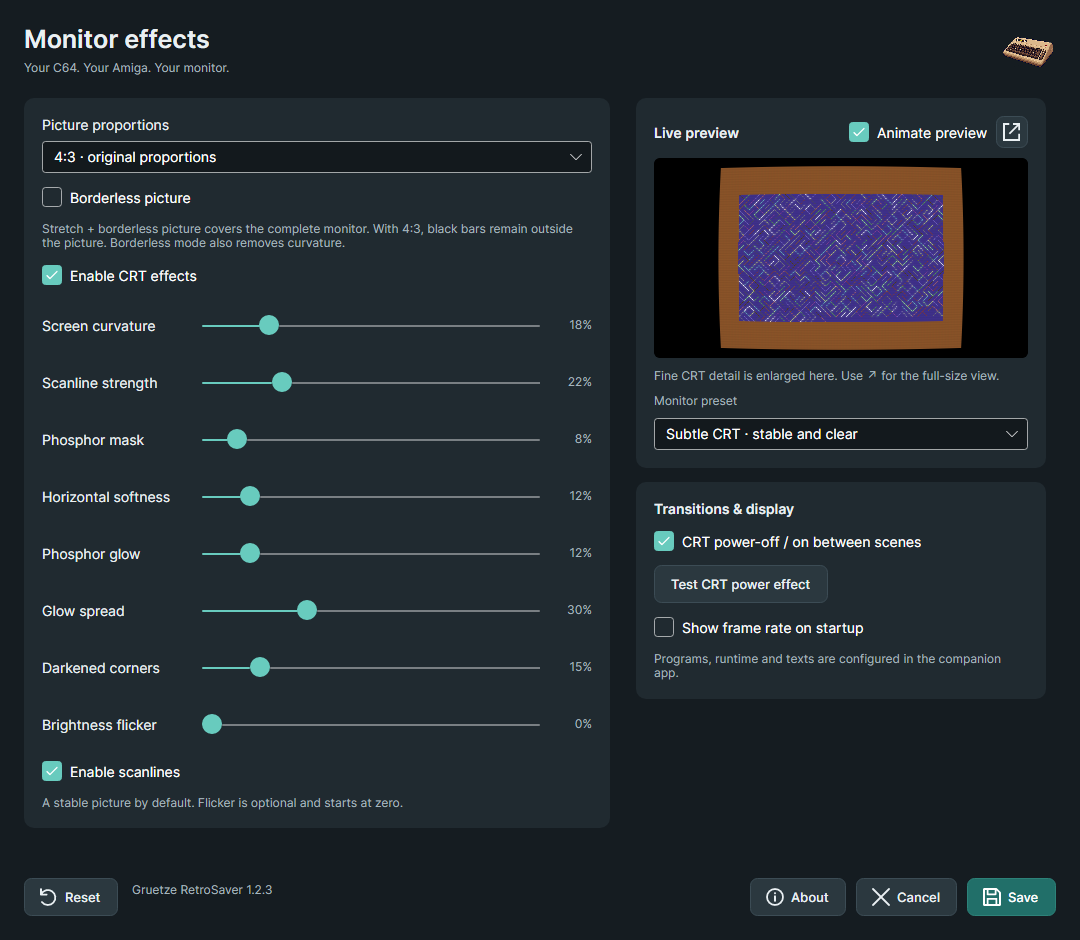
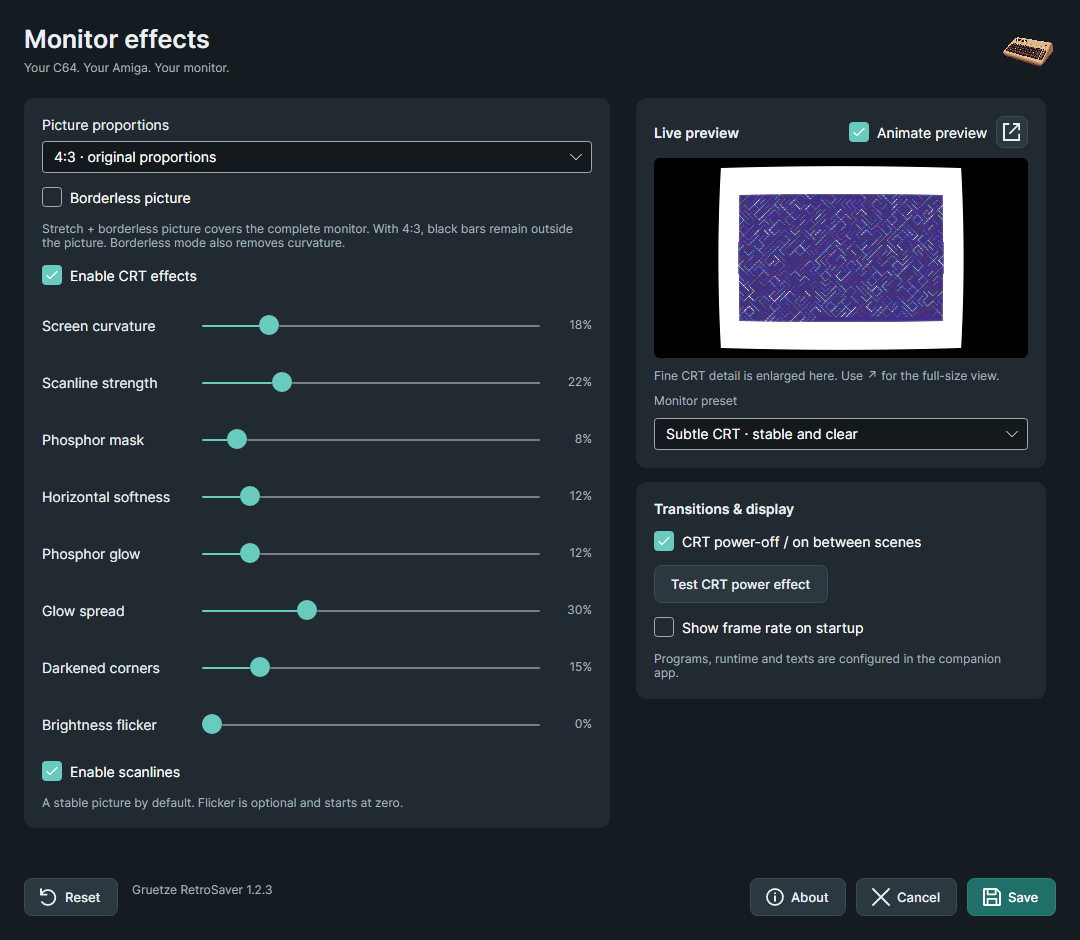
Prepare Gruetze RetroSaver 1.2.3 public release and refresh product documentation

Changed region(s): [[0.6417, 0.1543, 0.9167, 0.3702]]

diff --git a/README.md b/README.md
@@ -1,190 +1,144 @@
 # Gruetze RetroSaver
 
-Version **1.2.3** introduces the .NET 10 / Avalonia 12 companion for C64 and Amiga.
-Normal launch opens the companion; --fullscreen starts the selected animation.
-
-The Amiga selection contains **Jump & run** and **Plasma**. Alternate both or repeat
-one with a configurable duration and CRT power transitions. Jump & run includes
-an automatically jumping explorer, crystals and two independently scrolling woodland
-layers. Scrolling text can be edited, adjusted or hidden. Choose the historical
-Kickstart 1.3, 2.0 or 3.1 startup, or skip startup; an optional red disk-activity
-reflection accompanies loading. No Kickstart ROM is loaded.
-See [screen artwork credits](C64Screensaver/Assets/Kickstart/CREDITS.md).
-
-The C64 retains all three BASIC programs, ghost typing, corrections and RUN.
-Windows and Linux packages remain free. macOS development builds include the
-companion app and a real native system screensaver, built for Apple Silicon and Intel.
-A single DMG contains the companion with the native screensaver embedded inside it.
-Move the app into Applications, open it, and use **Install / update system screensaver**.
-Native Mac rendering uses Metal when available and keeps rendering/disposal off the UI thread.
-Both interfaces use one per-user settings file; the running screensaver reloads saves
-automatically. The native Options dialog remains available. App Store submission is
-pending. Mac developer packages are ad-hoc signed, not notarized, and are kept as
-build artifacts rather than public release assets.
-See [Mac build instructions](macos/README.md) and the
-[Developer ID guide](macos/APPLE-DEVELOPER-DE.md).
-The downloads below describe the historical C64Screensaver 1.1.0 release.
-
-![Gruetze RetroSaver companion with editable Amiga scroller](docs/images/retrosaver-companion.png)
-
-![Autoplay Amiga jump-and-run with scrolling text](docs/images/amiga-jump-and-run.png)
-
-## Existing C64 release 1.1
-
-A C64-inspired screensaver for Windows, Linux and macOS, built with .NET 10 and Avalonia 12.
-
-The familiar blue startup screen comes to life: an invisible typist enters real
-BASIC, makes mistakes, corrects them with Backspace and finally types RUN.
-Then the program takes over.
+C64 BASIC and Amiga demo screensavers with a shared companion app and adjustable CRT effects. Built with .NET 10 and Avalonia 12.
 
 ![C64 BASIC with phosphor glow](docs/images/glowing-crt.png)
 
-## Features
+## Two retro worlds
 
-- Three actual BASIC programs: endless maze, editable company card and twinkling starfield.
-- Play one program or cycle through all three, with adjustable run time and repeated code entry.
-- CRT curvature, scanlines, RGB phosphor mask, softness, glow, darkened corners and optional flicker.
-- Clean pixels, Subtle CRT, Classic monitor and Glowing CRT presets, individual controls and two live preview sizes.
-- Optional CRT power-off/on transition, collapsing the image into a line and a glowing point.
-- Independent 4:3 or stretched picture proportions and an option to hide the C64 border.
-- Editable company name, website and extra message.
-- Multiple monitors on Windows and X11; selectable X11/Wayland backend on Linux.
+**Commodore 64:** watch an invisible typist enter BASIC line by line, make mistakes,
+correct them with Backspace and finally type RUN. Choose an endless maze, an
+editable company card or a twinkling starfield. Cycle through all three or repeat
+one, with configurable runtime and optional border colour changes.
 
-The built-in BASIC interpreter executes a limited C64 BASIC V2 subset. This is
-not a full C64 emulator and does not load PRG files. Text uses fixed 8×8 glyphs
-on a 40×25 grid without requiring a C64 ROM.
+**Amiga:** choose a Kickstart 1.3, 2.0 or 3.1 startup image, then enjoy an autoplay
+Jump & run with layered woodland parallax or colourful Plasma. Alternate both
+or repeat your favourite. Edit, adjust or hide the sine-wave scrolling text;
+add a subtle disk-activity reflection during startup. No Kickstart ROM is loaded.
+See [artwork credits](C64Screensaver/Assets/Kickstart/CREDITS.md).
 
-## Download and start
+![Amiga jump-and-run with scrolling text](docs/images/amiga-jump-and-run.png)
 
-[Download version 1.1.0](https://github.com/gruetze-software/C64Screensaver/releases/tag/v1.1.0)
+## Download 1.2.3
 
-Version **1.1.0** packages are prepared for Windows, Linux and macOS on x64 and ARM64.
-Each ZIP includes the .NET runtime; a separate .NET installation is not required.
-Extract the **entire** archive into a folder before launching.
+[Download Gruetze RetroSaver 1.2.3](https://github.com/gruetze-software/C64Screensaver/releases/tag/v1.2.3)
 
-| Platform | Start settings | Start fullscreen |
+Free, self-contained ZIP packages are available for **Windows and Linux**, on
+x64 and ARM64. No separate .NET installation is needed. Extract the entire ZIP
+before starting; keep its files together. Verify downloads with SHA256SUMS.txt.
+
+| Platform | Open companion | Start animation |
 | --- | --- | --- |
-| Windows | c64screensaver.exe --settings | c64screensaver.exe --fullscreen |
-| Linux | ./c64screensaver --settings | ./c64screensaver --fullscreen |
-| macOS | ./c64screensaver --settings | ./c64screensaver --fullscreen |
+| Windows | `c64screensaver.exe` | `c64screensaver.exe --fullscreen` |
+| Linux | `./c64screensaver` | `./c64screensaver --fullscreen` |
 
-On Linux and macOS, first run chmod +x c64screensaver in the extracted folder.
-Linux requires a graphical desktop and the native libraries used by Avalonia/Skia;
-a minimal server installation is insufficient. macOS packages are unsigned and
-not notarized; system security settings may require explicit approval to open them.
+The executable retains its historical filename for compatibility. The application
+and download packages are named **Gruetze RetroSaver**.
+On Linux, first run `chmod +x c64screensaver`. A graphical desktop and the native
+libraries required by Avalonia/Skia are needed. Use `--x11` or `--wayland` to
+select the backend; Wayland currently uses one display.
 
-Fullscreen exits on mouse movement, click or keypress. Windowed mode closes with
-Escape. F toggles frame statistics. Additional commands: --windowed, --about.
-On Linux, --x11 and --wayland select the display backend.
+Fullscreen exits on mouse movement, click or keypress after a short launch grace
+period. Escape closes windowed previews; F toggles frame statistics.
+Additional commands: `--settings`, `--windowed`, `--about`.
 
 ### Windows screensaver
 
-The Windows archive includes c64screensaver.scr. Keep it beside the executable
-and all included dependencies. Right-click the SCR file for Windows screensaver
-options. The standard /s, /c and /p HWND switches are supported.
-Do not move the SCR file alone into a system folder.
+Right-click the included `c64screensaver.scr` to install or configure it using
+Windows screensaver options. Keep it beside the executable and all dependencies;
+do not copy the SCR file alone into a system folder. Standard `/s`, `/c` and
+`/p HWND` switches are supported.
 
-### Linux and macOS integration
+### Linux integration
 
-For external automatic-launch options, see the
-[Linux and macOS screensaver setup guide](docs/SCREEN-SAVER-SETUP.md).
-It includes the current Flathub/Snap Store findings and the distinction between
-fullscreen automation and a native macOS screensaver.
+Automatic activation depends on the desktop environment. See the
+[setup guide](docs/SCREEN-SAVER-SETUP.md) for X11 and other desktop integrations,
+including the limitations on GNOME/Wayland. RetroSaver does not install an idle
+helper or autostart entry and does not replace the password lock.
 
-On Linux, use --fullscreen through a desktop screensaver command integration
-where supported. Wayland currently uses one display; lock-screen integration
-depends on the desktop environment.
+### macOS
 
-On macOS, this release is a fullscreen desktop application. A native .saver
-bundle and registration in the macOS Screen Saver settings are not included.
+A native system screensaver and companion app are in development for Apple
+Silicon and Intel. The app contains the `.saver` and offers **Install / update
+system screensaver**. Both interfaces share settings; native rendering uses
+Metal when available, with a CPU fallback.
 
-Windows rendering and automated tests were checked locally. Linux and macOS
-packages are cross-published; native runtime testing on those systems is still
-required.
+Public GitHub releases contain **Windows/Linux downloads only**. Mac distribution
+through the App Store is planned; no Store version or purchase link is available
+yet. Developer builds and signing are documented in the [Mac guide](macos/README.md)
+and [Developer ID instructions](macos/APPLE-DEVELOPER-DE.md).
 
-## Settings
+## Companion and settings
 
-The companion shows the controls for the selected system. C64 offers BASIC program,
-runtime, animation speed, border colour changes and the three company-card texts.
-Amiga offers Kickstart, Jump & run/Plasma, duration, disk reflection and scrolling text.
+Select C64 or Amiga in the companion. Each system has its own playback and text
+controls; settings are saved independently of the shared monitor effects.
 
-![C64 playback and company text in the companion](docs/images/settings-playback.png)
+![Amiga companion with editable scrolling text](docs/images/retrosaver-companion.png)
 
-**Monitor effects** opens the common C64/Amiga dialog: proportions, borderless picture,
-CRT controls, presets, power transitions and frame-rate display. Its live preview uses
-the selected system. The ↗ button opens a larger view; F11 toggles fullscreen and
-Escape closes it. Reset affects monitor/display options, preserving programs and texts.
+![C64 companion with BASIC and company-card controls](docs/images/settings-playback.png)
+
+**Monitor effects** offers curvature, scanlines, phosphor mask, horizontal
+softness, glow strength and spread, darkened corners and optional flicker.
+Start from Clean pixels, Subtle CRT, Classic monitor or Glowing CRT, then adjust
+each effect with the live preview. The enlarge button opens a bigger preview;
+F11 toggles its fullscreen view and Escape closes it.
 
 ![Shared monitor effects with default values](docs/images/settings-monitor.png)
 
-On macOS, Screen Saver Options opens the installed companion. If Launch Services
-cannot find it, the native fallback editor stays available. Move the complete app
-into Applications before installing the embedded screensaver. The macOS app menu
-uses the Gruetze RetroSaver name, About and Settings entries and standard Hide/Quit.
-Mac DMGs include English installation instructions in **Read me.txt**.
+Choose original 4:3 proportions or stretch to the display. Stretch plus hidden
+border fills the monitor; 4:3 retains black bars on wide or portrait displays.
+Hiding the border removes curvature. Flicker defaults to zero. Optional CRT
+power transitions collapse the image into a line and glowing dot between programs.
+Reset in Monitor effects preserves both systems' playback and text settings.
 
-4:3 preserves the picture shape. Stretch plus borderless picture covers the monitor;
-4:3 leaves black bars on wide/portrait displays. Borderless mode removes curvature.
-Flicker is optional and defaults to zero. Settings are shared on macOS as described
-in the Mac guide; Windows/Linux retain C64Screensaver/settings.json.
+On macOS, Screen Saver Options opens the installed companion, or a native fallback
+with General, C64, Amiga and Monitor effects tabs. Move the app to Applications
+before installing its embedded screensaver. Mac DMGs include English Read me.txt.
+
+The C64 interpreter implements a limited BASIC V2 subset and a 40×25 character
+screen with 8×8 glyphs. This is not a full machine emulator; PRG files are not loaded.
 
 ## Build and test
 
 Requires the .NET 10 SDK. Package versions are fixed in the project file.
 
-    dotnet build C64Screensaver.sln -c Release
-    dotnet run --project tests/Smoke -c Release
+```sh
+dotnet build C64Screensaver.sln -c Release
+dotnet run --project tests/Smoke -c Release
+```
 
-The smoke suite checks BASIC execution, typing and typo correction, RUN gating,
-demo rotation, settings persistence, picture coverage and proportions, CRT
-transitions, slider geometry and rendered differences in both live previews.
-It writes diagnostic images to docs/images.
+The smoke suite checks BASIC execution, ghost typing, rotation, settings,
+proportions, CRT transitions, live previews and editor layout. It also regenerates
+README dialog screenshots using isolated settings, without resetting personal
+preferences. Additional Amiga and native bridge tests are in `tests/Amiga` and
+`tests/NativeBridge`. Mac CI checks the native options, lifecycle, Metal rendering,
+real fullscreen and packaged DMG on Apple Silicon and Intel.
 
-To deliberately reset the current user's settings and regenerate the two README
-screenshots:
-
-    dotnet run --project tests/Smoke -c Release -- --release-screenshots
-
-That explicit command saves a copy of the previous settings in
-artifacts/user-settings-before-release.json and writes the default settings.
-Ordinary tests do not reset the user's settings.
+To deliberately reset personal settings and capture defaults, use the optional
+`--release-screenshots` smoke argument. Previous settings are backed up in
+`artifacts/user-settings-before-release.json`.
 
 ## Prepare release packages
 
-    pwsh scripts/release.ps1
+```powershell
+pwsh scripts/release.ps1
+```
 
-Builds and tests Release, then creates free Windows/Linux self-contained ZIP files
-and a SHA-256 checksum list in artifacts/release/1.2.0.
-To publish one platform:
+Builds and tests Release, then creates Windows/Linux ZIPs and SHA-256 checksums
+in `artifacts/release/1.2.3`. For one platform use
+`pwsh scripts/publish.ps1 -Runtime win-x64`. Public release targets are win-x64,
+win-arm64, linux-x64 and linux-arm64. Publishing locally does not upload a release.
 
-    pwsh scripts/publish.ps1 -Runtime win-x64
-
-Supported targets: win-x64, win-arm64, linux-x64, linux-arm64,
-osx-x64, osx-arm64. Internet access may be needed to restore runtime packs.
-Publishing does not sign, upload or register the application.
-
-See [release notes](CHANGELOG.md) and
-[CRT research and implementation](docs/CRT-RESEARCH.md).
+See the [changelog](CHANGELOG.md), [CRT research](docs/CRT-RESEARCH.md) and
+[Mac performance notes](macos/PERFORMANCE.md).
 
 ## Credits and license
 
 Created by [Grütze-Software](https://www.gruetze-software.de).
-Settings, About styling and the C64 breadbox artwork come from the owner's
-GruetzeToaster project. The separate company logo is retained in About.
-The renderer uses an original Skia shader; emulator references are documented
-in the CRT research notes.
+Settings/About styling and C64 breadbox artwork originate in the owner's
+GruetzeToaster project. The company logo appears in About. The CRT shader is an
+original implementation; emulator references are documented in the research notes.
 
-MIT license; see [LICENSE](LICENSE). Independent project, not affiliated with Commodore.
-
-## New in 1.1
-
-Version 1.1 adds smooth CRT bloom with an independent glow-spread
-slider and a stable **Glowing CRT** preset. The shader implementation is original.
-
-![Broad CRT phosphor bloom](docs/images/glowing-crt.png)
-
-Automatic activation is delegated to external desktop tools. The application
-does not install an idle helper or a login autostart entry.
-See [setting up a screensaver on Linux and macOS](docs/SCREEN-SAVER-SETUP.md)
-for verified options and platform limitations. The Snap recipe remains an
-unbuilt development draft for manually launching the animation.
+MIT license; see [LICENSE](LICENSE). Kickstart captures have separate
+[artwork credits](C64Screensaver/Assets/Kickstart/CREDITS.md).
+Independent project, not affiliated with Commodore.

diff --git a/docs/SCREEN-SAVER-SETUP.md b/docs/SCREEN-SAVER-SETUP.md
@@ -1,6 +1,6 @@
-# Set up C64Screensaver on Linux and macOS
+# Set up Gruetze RetroSaver on Linux and macOS
 
-C64Screensaver renders the animation and exits fullscreen on input.
+Gruetze RetroSaver renders the animation and exits fullscreen on input.
 It does not monitor desktop inactivity, install a background helper, create
 login autostart entries or replace the operating system's password lock.
 
@@ -93,54 +93,23 @@ Names and placement depend on the Plasma version. Configure the relevant power
 profile. This documents PowerDevil's feature, not a native KDE compatibility
 test of this application's package. Keep the normal screen lock enabled.
 
-## macOS: automatic fullscreen with Keyboard Maestro
+## macOS: native system screensaver
 
-The Mac package currently is a desktop executable. It does not contain a
-native screensaver bundle and cannot simply be selected in macOS Screen Saver
-settings or converted by renaming it.
+Gruetze RetroSaver now has a native `.saver` embedded in its companion app.
+The Mac developer DMG is built separately; public GitHub releases contain only
+Windows and Linux packages. App Store distribution is planned and is not live yet.
 
-[Keyboard Maestro](https://www.keyboardmaestro.com/main/) is a commercial external
-automation app. Its [Idle trigger](https://wiki.keyboardmaestro.com/trigger/Idle)
-explicitly runs a macro after a configurable period without user input.
-Its [Execute a Shell Script action](https://wiki.keyboardmaestro.com/action/Execute_a_Shell_Script)
-can start the extracted executable.
+1. Move **Gruetze RetroSaver.app** from the DMG to Applications and open it.
+2. Choose C64 or Amiga, configure playback and monitor effects, then save.
+3. Click **Install / update system screensaver** and complete Apple's installer.
+4. Select Gruetze RetroSaver in the macOS Screen Saver settings.
+5. Options opens the companion when available, with a native fallback editor.
 
-1. Extract the macOS package to a permanent folder, for example
-   /Users/alex/Applications/C64Screensaver.
-2. In Terminal, make the executable runnable:
-
-       chmod +x "/Users/alex/Applications/C64Screensaver/c64screensaver"
-
-3. Verify manual fullscreen launch:
-
-       "/Users/alex/Applications/C64Screensaver/c64screensaver" --fullscreen
-
-4. In Keyboard Maestro, create an enabled macro in a group available in all
-   applications.
-5. Add an Idle trigger, for example five minutes. Leave the optional
-   every-minute retrigger disabled.
-6. Add Execute a Shell Script and enter the fullscreen command above.
-7. Enable Keyboard Maestro Engine at login in its preferences if desired.
-   Grant only the permissions macOS and the tool request for the selected actions.
-8. Keep the normal macOS password lock. Choose an animation delay earlier than
-   screen blanking/locking. Do not expect a visible saver while already locked
-   or while the display/computer is asleep.
-
-This is an external idle-triggered fullscreen animation, not registration as a
-native macOS screensaver. The setup is based on the documented trigger/action;
-it still needs testing with the specific macOS release and our unsigned package.
-
-### Native macOS Screen Saver settings
-
-For the app to appear directly in those settings, we would need a separately
-implemented and tested native integration. Apple's
-[ScreenSaverView documentation](https://developer.apple.com/documentation/screensaver/screensaverview)
-describes a custom view in a screensaver bundle. The current Avalonia executable
-does not provide that view.
-
-Video-only savers such as SaveHollywood do not launch this application or
-execute its live BASIC programs. They are not a wrapper for this package.
-No generic wrapper has been verified for current macOS versions.
+The system handles inactivity and password locking. The app and screensaver
+share settings, and the screensaver reloads saved changes. After replacing an
+older native build, restart the Mac so the host releases the previous code.
+Developer builds require signing/notarization for normal distribution; see the
+[Mac guide](../macos/README.md) and [Developer ID guide](../macos/APPLE-DEVELOPER-DE.md).
 
 ## If an earlier 1.1 preview enabled automatic start
 

diff --git a/CHANGELOG.md b/CHANGELOG.md
@@ -1,7 +1,8 @@
 # Changelog
 
-## 1.2.3 — 2026-10-30
+## 1.2.3 — 2026-11-01
 
+- Publish as Gruetze RetroSaver with updated C64/Amiga documentation, current settings screenshots and free Windows/Linux packages.
 - Reserve scrollbar gutters in companion/monitor editors; verify field bounds at minimum window size.
 - Give the native options clear General, C64, Amiga and Monitor effects tabs.
 - Render fullscreen native frames off AppKit as well as previews; retire sessions behind outstanding renders without blocking the UI.
